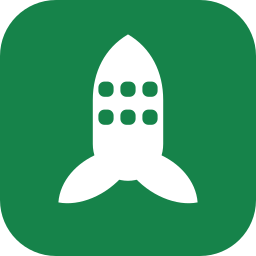
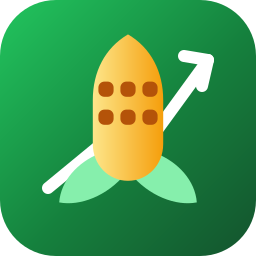
Карта: только спутниковая подложка + новая иконка PMM
- оставлена единственная подложка «Спутник» (Esri World Imagery), светлая карта удалена
- убран переключатель подложек и координатная сетка
- CSP и allowlist внешних ссылок приведены к спутниковому источнику
- новая иконка приложения (початок кукурузы + линия прогноза)
- версия 0.1.7

diff --git a/src/pages/map/index.js b/src/pages/map/index.js
@@ -21,7 +21,6 @@ import { createSelectField } from "../../components/field.js";
 import { createProgressBar } from "../../components/empty-state.js";
 import { BASEMAPS, DEFAULT_BASEMAP, createBasemap, watchTiles } from "./basemaps.js";
 import { createCountryLayer, createRegionLayer, loadGeoData, REGION_CLICK_MAX_ZOOM, REGION_ZOOM_MIN } from "./geo-layers.js";
-import { createGraticule } from "./graticule.js";
 import { runForecast as requestForecast } from "../../services/forecast-service.js";
 import { setSetting } from "../../services/repositories.js";
 import { MAP_DEFAULTS } from "../../app/state.js";
@@ -35,7 +34,6 @@ export function createMapPage(context = {}) {
   let map = null;
   let tileLayer = null;
   let tileWatch = null;
-  let graticule = null;
   let countryLayer = null;
   let regionApi = null;
   let marker = null;
@@ -123,12 +121,6 @@ export function createMapPage(context = {}) {
   ]);
 
   const container = h("div", { class: "map-canvas" });
-  const layerSwitch = createSegmented({
-    label: "Подложка карты",
-    value: DEFAULT_BASEMAP,
-    options: Object.values(BASEMAPS).map((basemap) => ({ value: basemap.id, label: basemap.label })),
-    onChange: (value) => setBasemap(value, { save: true }),
-  });
   const zoomControls = h("div", { class: "map-card" }, [
     h("div", { class: "map-controls__row" }, [
       h("button", { type: "button", class: "map-btn", "aria-label": "Приблизить", onclick: () => map?.zoomIn() }, [icon("plus", { size: 16 })]),
@@ -139,7 +131,7 @@ export function createMapPage(context = {}) {
   const mapErrorHost = h("div");
   const node = h("div", { class: "map-page" }, [
     container,
-    h("div", { class: "map-ui map-ui--left" }, [layerSwitch, zoomControls]),
+    h("div", { class: "map-ui map-ui--left" }, [zoomControls]),
     h("div", { class: "map-ui map-ui--right" }, [panel]),
     mapErrorHost,
   ]);
@@ -175,7 +167,6 @@ export function createMapPage(context = {}) {
       ],
     });
 
-    graticule = createGraticule(map);
     setBasemap(BASEMAPS[saved.layer] ? saved.layer : DEFAULT_BASEMAP);
 
     // Выбор точки — обычный клик по свободной поверхности карты.
@@ -393,9 +384,6 @@ export function createMapPage(context = {}) {
   function setBasemap(id, { save = true } = {}) {
     const basemap = createBasemap(id);
     currentBasemap = basemap.id;
-    for (const button of layerSwitch.querySelectorAll(".segmented__btn")) {
-      button.setAttribute("aria-pressed", button.dataset.value === currentBasemap ? "true" : "false");
-    }
     if (!map) return;
     if (tileLayer) {
       map.removeLayer(tileLayer);
@@ -648,7 +636,6 @@ export function createMapPage(context = {}) {
       unsubscribe?.();
       popEsc?.();
       resizeObserver?.disconnect();
-      graticule?.destroy();
       if (map) {
         map.off();
         map.remove();

diff --git a/src/pages/map/basemaps.js b/src/pages/map/basemaps.js
@@ -1,10 +1,8 @@
 /**
- * Подложки карты.
+ * Подложка карты — только спутниковые снимки.
  *
- * Тайлы — единственные сетевые запросы приложения. Оба источника требуют
- * указания авторства, оно сохранено в attribution слоёв (это текст источников,
- * а не пользовательские данные). Условия использования:
- *   • CARTO Positron — https://carto.com/attribution (данные © OpenStreetMap, ODbL)
+ * Тайлы — единственные сетевые запросы приложения. Источник требует указания
+ * авторства, оно сохранено в attribution слоя. Условия использования:
  *   • Esri World Imagery — https://www.esri.com/legal/licensing
  *
  * Без сети карта показывает сообщение об ошибке, остальные разделы работают.
@@ -13,21 +11,6 @@
 import L from "leaflet";
 
 export const BASEMAPS = Object.freeze({
-  light: {
-    id: "light",
-    label: "Карта",
-    create() {
-      return L.tileLayer("https://{s}.basemaps.cartocdn.com/light_all/{z}/{x}/{y}{r}.png", {
-        subdomains: "abcd",
-        maxZoom: 20,
-        maxNativeZoom: 19,
-        keepBuffer: 1,
-        crossOrigin: true,
-        attribution:
-          '&copy; <a href="https://www.openstreetmap.org/copyright">OpenStreetMap</a> contributors &copy; <a href="https://carto.com/attributions">CARTO</a>',
-      });
-    },
-  },
   satellite: {
     id: "satellite",
     label: "Спутник",
@@ -43,7 +26,7 @@ export const BASEMAPS = Object.freeze({
   },
 });
 
-export const DEFAULT_BASEMAP = "light";
+export const DEFAULT_BASEMAP = "satellite";
 
 export function createBasemap(id) {
   return BASEMAPS[id] ?? BASEMAPS[DEFAULT_BASEMAP];
